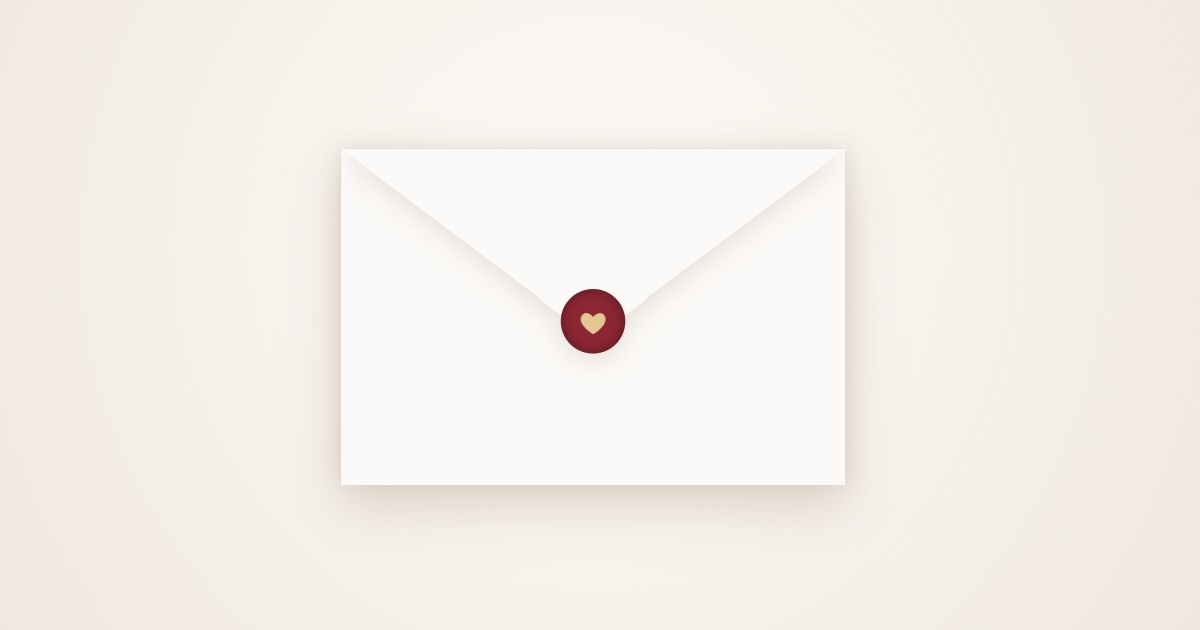
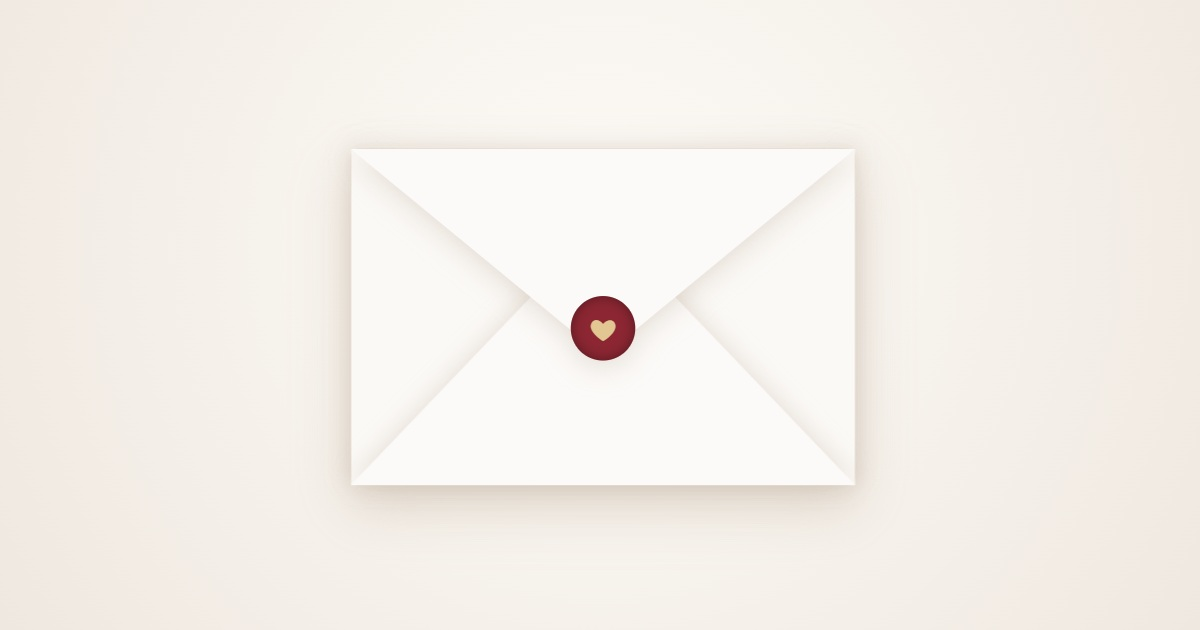
update envelope

Changed region(s): [[0.2775, 0.2714, 0.3083, 0.7841], [0.6783, 0.2714, 0.7092, 0.754], [0.4625, 0.4524, 0.555, 0.573]]

diff --git a/index.html b/index.html
@@ -64,12 +64,12 @@
         .letter {
             position: absolute;
             width: 310px;    
-            height: 430px;   
+            height: 432px;   
             left: 25px;      
             top: 15px; 
             background-color: transparent;
             border-radius: 6px;
-            clip-path: inset(0 0 210px 0); 
+            clip-path: inset(0 0 212px 0); 
             z-index: 3; 
             perspective: 1200px; 
         }
@@ -99,8 +99,23 @@
             pointer-events: none; 
         }
 
-        .card-back {
-            transform: rotateY(180deg); 
+        /* 產生 3D 厚度 - 正反面推開 1.5px */
+        .card-face.card-front {
+            transform: translateZ(1.5px);
+        }
+
+        .card-face.card-back {
+            transform: rotateY(180deg) translateZ(1.5px); 
+        }
+
+        /* 改用「圖層疊加法」產生完美厚度，自然貼合圓角弧度 */
+        .card-layer {
+            position: absolute;
+            width: 100%;
+            height: 100%;
+            background-color: #D8CEC3; 
+            border-radius: 6px; /* 繼承信件的圓角 */
+            pointer-events: none;
         }
 
         .front-pocket {
@@ -114,11 +129,34 @@
             pointer-events: none;
         }
 
-        .front-shape {
+        .flap-left {
+            position: absolute;
             width: 100%;
             height: 100%;
-            background: #FCFAF8;
-            clip-path: path('M 0,240 L 360,240 L 360,0 Q 180,140 0,0 Z');
+            background-color: #FBF9F6; 
+            clip-path: polygon(0 0, 55% 55%, 0 100%);
+        }
+
+        .flap-right {
+            position: absolute;
+            width: 100%;
+            height: 100%;
+            background-color: #FBF9F6; 
+            clip-path: polygon(100% 0, 100% 100%, 45% 55%);
+        }
+
+        .flap-bottom-wrapper {
+            position: absolute;
+            width: 100%;
+            height: 100%;
+            filter: drop-shadow(0 -3px 8px rgba(180, 160, 140, 0.3));
+        }
+
+        .flap-bottom {
+            width: 100%;
+            height: 100%;
+            background-color: #FCFAF8; 
+            clip-path: path('M 0,240 L 360,240 L 230,104 Q 218.3,96 212.5,96 L 147.5,96 Q 141.7,96 130,104 Z');
         }
 
         .top-flap-container {
@@ -129,15 +167,40 @@
             height: 170px;
             z-index: 5;
             transform-origin: top;
-            filter: drop-shadow(0 4px 10px rgba(180, 160, 140, 0.35));
+            transform-style: preserve-3d;
             transition: transform 0.6s cubic-bezier(0.4, 0, 0.2, 1), z-index 0s 0.3s;
         }
 
-        .flap-shape {
+        .flap-inside {
+            position: absolute;
+            top: 0;
+            left: 0;
+            width: 100%;
+            height: 100%;
+            background: #E8DACB; 
+            clip-path: path('M 0,0 L 360,0 L 190,140 Q 180,150 170,140 Z');
+            transform: rotateY(180deg) translateZ(1px);
+            backface-visibility: hidden;
+            -webkit-backface-visibility: hidden;
+        }
+
+        .flap-outside {
+            position: absolute;
+            top: 0;
+            left: 0;
+            width: 100%;
+            height: 100%;
+            transform: translateZ(1px);
+            backface-visibility: hidden;
+            -webkit-backface-visibility: hidden;
+            filter: drop-shadow(0 4px 10px rgba(180, 160, 140, 0.35));
+        }
+
+        .outside-shape {
             width: 100%;
             height: 100%;
             background: #FCFAF8;
-            clip-path: path('M 0,0 L 360,0 L 220,105 Q 180,145 140,105 Z');
+            clip-path: path('M 0,0 L 360,0 L 190,140 Q 180,150 170,140 Z');
         }
 
         .wax-seal {
@@ -147,7 +210,8 @@
             background-color: #8B2632;
             border-radius: 50%;
             left: 157px;
-            top: 100px;
+            top: 115px; 
+            transform: translateZ(2px); 
             box-shadow: inset 0 0 8px rgba(0,0,0,0.4), 0 2px 5px rgba(0,0,0,0.2);
             display: flex;
             justify-content: center;
@@ -254,10 +318,10 @@
         }
 
         @keyframes pullAndCenter {
-            0% { transform: translateY(0); clip-path: inset(0 0 210px 0); z-index: 3; }
-            49% { transform: translateY(-460px); clip-path: inset(0 0 0 0); z-index: 3; }
-            50% { transform: translateY(-460px); clip-path: inset(0 0 0 0); z-index: 6; }
-            100% { transform: translateY(-310px); clip-path: inset(0 0 0 0); z-index: 6; }
+            0% { transform: translateY(0); clip-path: inset(0 0 212px 0); z-index: 3; }
+            49% { transform: translateY(-462px); clip-path: inset(0 0 0 0); z-index: 3; }
+            50% { transform: translateY(-462px); clip-path: inset(0 0 0 0); z-index: 6; }
+            100% { transform: translateY(-302px); clip-path: inset(0 0 0 0); z-index: 6; }
         }
 
         @keyframes musicBounce {
@@ -293,12 +357,24 @@
                 <div class="card-inner" id="cardInner">
                     <img class="card-face card-front" id="imgFront" src="info0.jpg" alt="Info 0">
                     <img class="card-face card-back" id="imgBack" src="info1.jpg" alt="Info 1">
+                    
+                    <div class="card-layer" style="transform: translateZ(1.2px);"></div>
+                    <div class="card-layer" style="transform: translateZ(0.8px);"></div>
+                    <div class="card-layer" style="transform: translateZ(0.4px);"></div>
+                    <div class="card-layer" style="transform: translateZ(0px);"></div>
+                    <div class="card-layer" style="transform: translateZ(-0.4px);"></div>
+                    <div class="card-layer" style="transform: translateZ(-0.8px);"></div>
+                    <div class="card-layer" style="transform: translateZ(-1.2px);"></div>
                 </div>
                 <div class="hint-swipe" id="hintSwipe">👆</div>
             </div>
 
             <div class="front-pocket">
-                <div class="front-shape"></div>
+                <div class="flap-left"></div>
+                <div class="flap-right"></div>
+                <div class="flap-bottom-wrapper">
+                    <div class="flap-bottom"></div>
+                </div>
             </div>
 
             <div class="music-player paused" id="musicPlayer">
@@ -307,7 +383,10 @@
             </div>
 
             <div class="top-flap-container">
-                <div class="flap-shape"></div>
+                <div class="flap-inside"></div>
+                <div class="flap-outside">
+                    <div class="outside-shape"></div>
+                </div>
                 <div class="wax-seal">❤</div>
             </div>
             
@@ -339,7 +418,6 @@
         let startX = 0;             
         let currentScale = 1; 
         
-        // 🌟 更新：用 Set 集合來記錄「已經從哪些頁面滑動過」
         let swipedFromIndices = new Set();
         let swipeHintTimer;
 
@@ -362,18 +440,15 @@
             return index;
         }
 
-        // 🌟 新增：統一控管滑動提示的函數
         function triggerSwipeHint() {
             clearTimeout(swipeHintTimer);
             hintSwipe.classList.remove('active');
             
-            // 如果 4 頁都滑過了，就永遠不再顯示提示
             if (swipedFromIndices.size >= images.length) return;
 
             let currentTurn = Math.round(currentTotalRotation / 180);
             let currentIndex = getIndexForTurn(currentTurn);
 
-            // 如果停留在「還沒有滑過」的頁面，倒數 3 秒後顯示提示
             if (!swipedFromIndices.has(currentIndex)) {
                 swipeHintTimer = setTimeout(() => {
                     hintSwipe.classList.add('active');
@@ -401,7 +476,6 @@
                     myLetter.classList.add('no-clip'); 
                     myLetter.style.cursor = 'grab';    
                     
-                    // 🌟 啟動第一頁的提示倒數
                     triggerSwipeHint();
 
                 }, 2400);
@@ -431,7 +505,6 @@
             if (!isExtracted || isAnimating) return;
             if (e.touches && e.touches.length > 1) return;
             
-            // 🌟 紀錄使用者剛從哪一頁開始滑動，並立刻隱藏目前的提示
             let currentTurn = Math.round(currentTotalRotation / 180);
             swipedFromIndices.add(getIndexForTurn(currentTurn));
             
@@ -491,7 +564,6 @@
                 imgFront.src = images[getIndexForTurn(evenTurn)];
                 imgBack.src = images[getIndexForTurn(oddTurn)];
                 
-                // 🌟 動畫翻頁結束後，檢查新的一頁是否需要顯示提示
                 triggerSwipeHint();
             }, 500);
         }